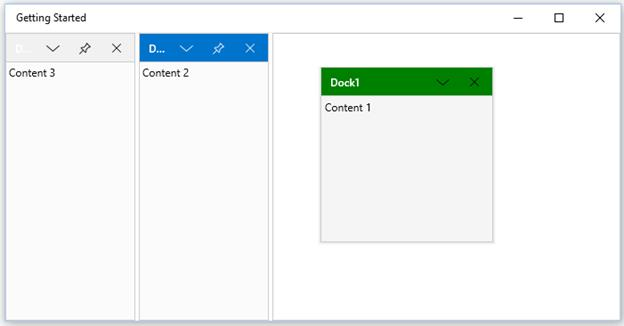
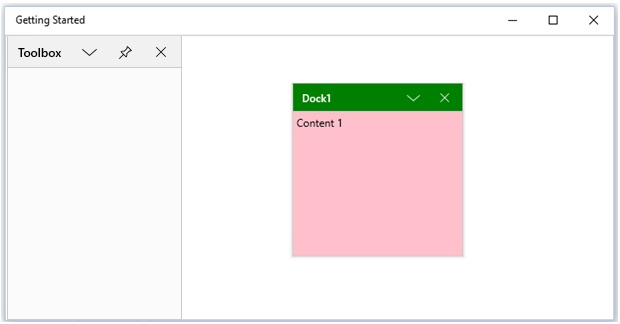
UWP-2137 - Reviewed API name changes in SfDockingManager documentation has been updated

Changed region(s): [[0.0, 0.0, 1.0, 1.0]]

diff --git a/uwp/SfDockingManager/Dealing-with-Windows.md b/uwp/SfDockingManager/Dealing-with-Windows.md
@@ -139,13 +139,13 @@ SfDockingManager.SetDockState(content1, DockState.Hidden);
 
 ## Customizing Docking window
 
-A Docking window can be customized using the property `HeaderBackground`, `CaptionForeground`, `CaptionFontFamily` and `CaptionMargin` with the desired values respectively.
+A Docking window can be customized using the property `DockWindowCaptionBackground`, `DockWindowCaptionForeground`, `DockWindowCaptionFontFamily` and `DockWindowCaptionMargin` with the desired values respectively.
 
 {% tabs %}
 
 {% highlight XAML %}
 
-<layout:SfDockingManager HeaderBackground="Red" CaptionForeground="Yellow">
+<layout:SfDockingManager DockWindowCaptionBackground="Red" DockWindowCaptionForeground="Yellow">
 
 <ContentControl layout:SfDockingManager.Header="Dock1" Content="Content 1"/>
 
@@ -164,13 +164,13 @@ A Docking window can be customized using the property `HeaderBackground`, `Capti
 
 ## Customizing Active Docking Window
 
-Active docking window can be customized using the property `ActiveForeground`, `ActiveWindowColor` with the desired brush values respectively.
+Active docking window can be customized using the property `DockWindowActiveForeground`, `DockWindowActiveBackground` with the desired brush values respectively.
 
 {% tabs %}
 
 {% highlight XAML %}
 
-<layout:SfDockingManager ActiveForeground="Red" ActiveWindowColor="Green">
+<layout:SfDockingManager DockWindowActiveForeground="Red" DockWindowActiveBackground="Green">
 
 <ContentControl layout:SfDockingManager.Header="Dock"/>
 
@@ -189,20 +189,18 @@ Active docking window can be customized using the property `ActiveForeground`, `
 
 ## Customizing Floating Window
 
-The float window can be customized by setting `FloatWindowHeaderBackground`, `CaptionForeground`, `FloatWindowContentBackground`, `FloatWindowContentForeground`, `FloatWindowBorderBrush`, `FloatWindowBorderThickness`, `FloatWindowContentBorderBrush`, `FloatWindowContentBorderThickness` and `FloatWindowContentMargin` properties with the required values respectively.
+The float window can be customized by setting `FloatWindowBackground`, `FloatWindowActiveBackground`, `FloatWindowContentBackground`, `FloatWindowContentForeground`, `FloatWindowBorderBrush`, `FloatWindowBorderThickness`, `FloatWindowCaptionBackground`, `FloatWindowContentBorderBrush`, `FloatWindowContentMargin` and `FloatWindowContentBorderThickness` properties with the required values respectively.
 
 {% tabs %}
 
 {% highlight XAML %}
 
-<layout:SfDockingManager FloatWindowHeaderBackground="Green" CaptionForeground="White">
+<layout:SfDockingManager FloatWindowBackground="Pink" FloatWindowActiveBackground="Green">
 
 <ContentControl Content="Content 1" layout:SfDockingManager.Header="Dock1"
                                     layout:SfDockingManager.DockState="Float"/>
 
-<ContentControl layout:SfDockingManager.Header="Dock2" Content="Content 2"/>
-
-<ContentControl layout:SfDockingManager.Header="Dock3" Content="Content 3"/>
+<ContentControl layout:SfDockingManager.Header="Toolbox"/>
 
 </layout:SfDockingManager>
 
@@ -211,32 +209,6 @@ The float window can be customized by setting `FloatWindowHeaderBackground`, `Ca
 {% endtabs %}
 
 ![](Dealing-with-Windows-images/Dealing-with-Windows-img6.jpeg)
-
-
-## Customizing Active Floating Window
-
-Active floating window can be customized using the property `FloatWindowActiveHeaderBackground`, `ActiveForeground` with the desired brush values respectively.
-
-{% tabs %}
-
-{% highlight XAML %}
-
-<layout:SfDockingManager FloatWindowActiveHeaderBackground="Yellow" ActiveForeground="Red">
-
-<ContentControl Content="Content 1" layout:SfDockingManager.Header="Dock1"
-                                    layout:SfDockingManager.DockState="Float"/>
-
-<ContentControl layout:SfDockingManager.Header="Dock2" Content="Content 2"/>
-
-<ContentControl layout:SfDockingManager.Header="Dock3" Content="Content 3"/>
-
-</layout:SfDockingManager>
-
-{% endhighlight %}
-
-{% endtabs %}
-
-![](Dealing-with-Windows-images/Dealing-with-Windows-img7.jpeg)
 
 
 ## Enable/Disable Dragging a Window
@@ -260,13 +232,13 @@ The attached property `IsDragEnabled` that helps to enable or disable the draggi
 
 ## Customizing Hint Shadow Fill Color
 
-The fill color of hint shadow can be customized using `PopupColor` property of `SfDockingManager`.
+The fill color of hint shadow/dock preview element can be customized using `DockPreviewColor` property of `SfDockingManager`.
 
 {% tabs %}
 
 {% highlight XAML %}
 
-<layout:SfDockingManager PopUpColor="Red" >
+<layout:SfDockingManager DockPreviewColor="Red" >
 
 <ContentControl layout:SfDockingManager.Header="Item1" />
 

diff --git a/uwp/SfDockingManager/Auto-Hide-Window.md b/uwp/SfDockingManager/Auto-Hide-Window.md
@@ -51,14 +51,14 @@ documentation: ug
 
 ## Side Panel and TabItem Customization
 
-The side panel and side panel header can be customized through `SideTabBackground`, `SideItemsBackground` and `SideItemsForeground` properties of the `SfDockingManager`.
+The side panel and side panel header can be customized through `SidePanelBackground`, `SidePanelItemsBackground` and `SidePanelItemsForeground` properties of the `SfDockingManager`.
 
 {% tabs %}
 
 {% highlight XAML %}
 
-<layout:SfDockingManager SideTabBackground="Brown"
-                         SideItemsForeground="White" SideItemsBackground="Green">
+<layout:SfDockingManager SidePanelBackground="Brown"
+                         SidePanelItemsForeground="White" SidePanelItemsBackground="Green">
 
 <ContentControl layout:SfDockingManager.Header="SolutionExplorer"
                 layout:SfDockingManager.DockState="AutoHidden" />
@@ -154,13 +154,13 @@ The Animation speed while auto hiding a window can be configured by setting requ
 
 ## Enabling and Disabling the AutoHide functionality
 
-The Pin button that performs Auto Hide functionality can be visible by default. It can be invisible to disable the AutoHide functionality through `ShowAwlButton` property.
+The Pin button that performs Auto Hide functionality can be visible by default. It can be invisible to disable the AutoHide functionality through `ShowPinButton` property.
 
 {% tabs %}
 
 {% highlight XAML %}
 
-<layout:SfDockingManager ShowAwlButton="False">
+<layout:SfDockingManager ShowPinButton="False">
 
 <ContentControl layout:SfDockingManager.Header="SolutionExplorer" />
 
@@ -173,7 +173,7 @@ The Pin button that performs Auto Hide functionality can be visible by default. 
 ![](Auto-Hide-Window-images/Auto-Hide-Window-img4.jpeg)
 
 
-To show or collapse the AutoHide button for a specific child in the `SfDockingManager`, `AwlButtonVisible` attached property can be used. By default, its value is true, this functionality can be disabled by setting its value as false.
+To show or collapse the AutoHide button for a specific child in the `SfDockingManager`, `IsPinButtonVisible` attached property can be used. By default, its value is true, this functionality can be disabled by setting its value as false.
 
 {% tabs %}
 
@@ -182,10 +182,10 @@ To show or collapse the AutoHide button for a specific child in the `SfDockingMa
 <layout:SfDockingManager>
 
 <ContentControl layout:SfDockingManager.Header="SolutionExplorer"
-                layout:SfDockingManager.AwlButtonVisible="False"/>
+                layout:SfDockingManager.IsPinButtonVisible="False"/>
 
 <ContentControl layout:SfDockingManager.Header="ToolBox"
-                layout:SfDockingManager.AwlButtonVisible="True"/>
+                layout:SfDockingManager.IsPinButtonVisible="True"/>
 
 </layout:SfDockingManager>
 

diff --git a/uwp/SfDockingManager/Document-Windows.md b/uwp/SfDockingManager/Document-Windows.md
@@ -28,13 +28,7 @@ A Document window can be closed using the close button provided in header or usi
 
 A Document window can be moved to float state by dragging or double clicking the item header.
 
-## Pinnable Document Windows
+## Document Container behaviour with DockFill
 
-Document Windows can be pinned or unpinned using the pin button next to its header text.
-
-A pinned item will move to the last position in pinned items panel (Appears prior to unpinned items panel).
-
-An unpinned tab item will move to the first position in unpinned items panel (Appears next to pinned items panel).
-
-Pin or unpin button is visible when the item is selected or pointer is over (for unselected) the item.
+Dock windows are allowed to occupy the remaining space when DockFill property is set to true. SfDockingManager does not reserve space for DocumentContainer. So child windows with Document state are hidden in the layout.
 

diff --git a/uwp/SfDockingManager/Getting-Started.md b/uwp/SfDockingManager/Getting-Started.md
@@ -35,7 +35,7 @@ xmlns="http://schemas.microsoft.com/winfx/2006/xaml/presentation"
 
 xmlns:x="http://schemas.microsoft.com/winfx/2006/xaml"
 
-xmlns:local="using:DockingManager_ GettingStarted"
+xmlns:local="using:DockingManager_GettingStarted"
 
 xmlns:layout="using:Syncfusion.UI.Xaml.Controls.Layout">
 
@@ -112,9 +112,6 @@ xmlns:layout="using:Syncfusion.UI.Xaml.Controls.Layout">
 {% endtabs %}
 
 ![](Getting-Started-images/Getting-Started-img2.jpeg)
-
-
-![](Getting-Started-images/Getting-Started-img3.jpeg)
 
 
 ## Set State for the Children

diff --git a/uwp/SfDockingManager/Docking-Window.md b/uwp/SfDockingManager/Docking-Window.md
@@ -115,7 +115,12 @@ Also to set as Tabbed Window, the window should aware of a Target window name. T
 <ContentControl layout:SfDockingManager.Header="Toolbox"/>
 
 <ContentControl layout:SfDockingManager.Header="Solution Explorer"
-                layout:SfDockingManager.NoHeader="True" />
+                layout:SfDockingManager.NoHeader="True">
+                
+<TextBlock Text="Content of NoHeader window" FontStyle="Italic"
+           Foreground="Gray" TextWrapping="Wrap"/>
+
+</ContentControl>
 
 </layout:SfDockingManager>
 
